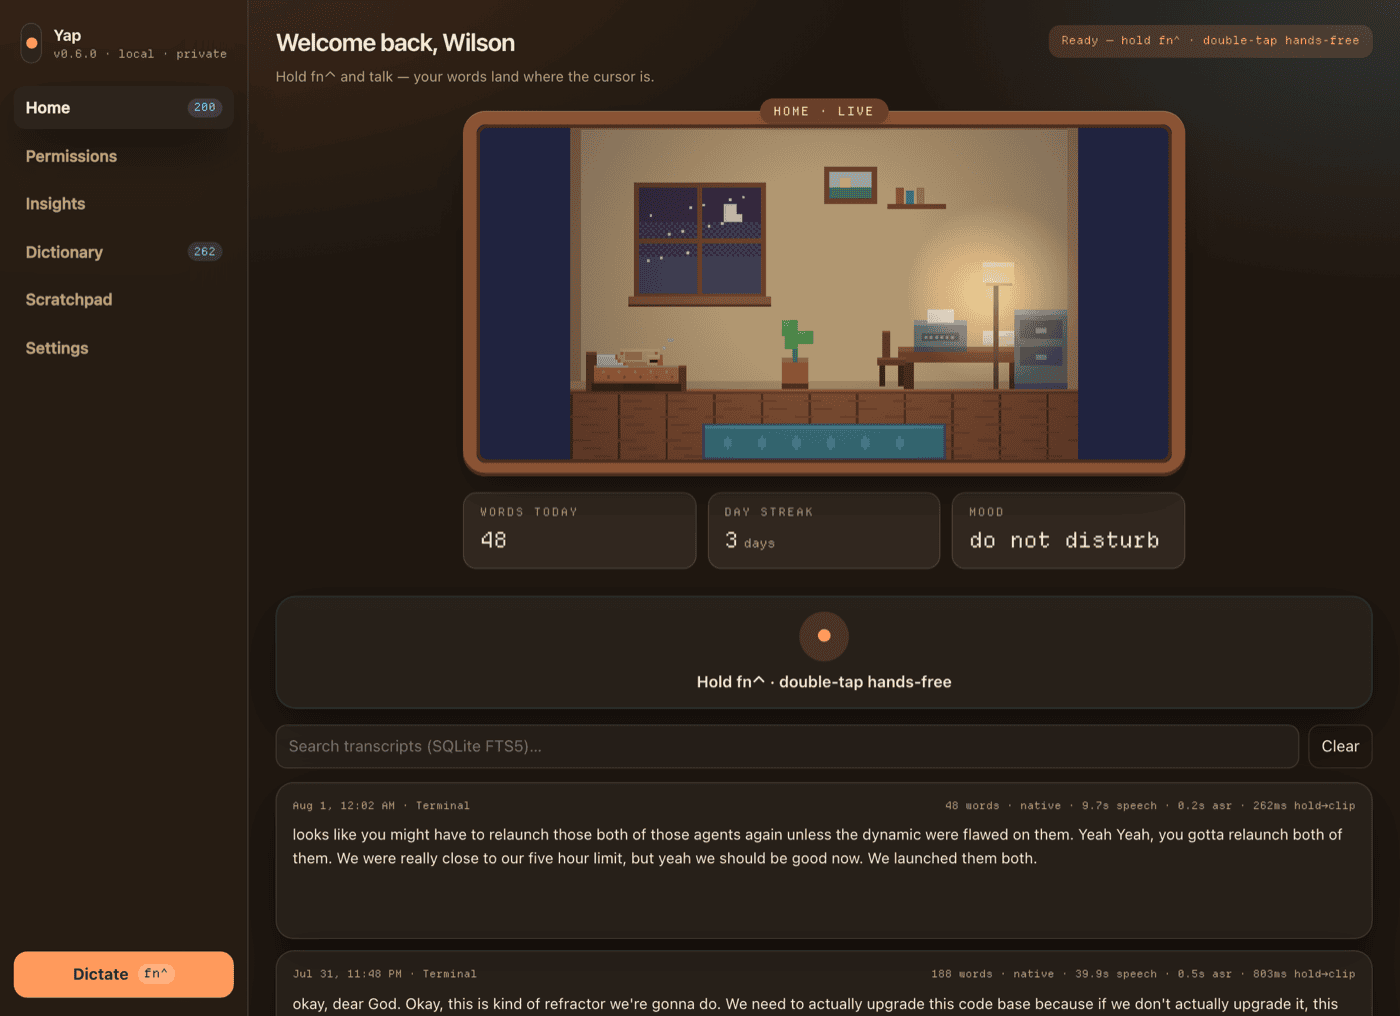
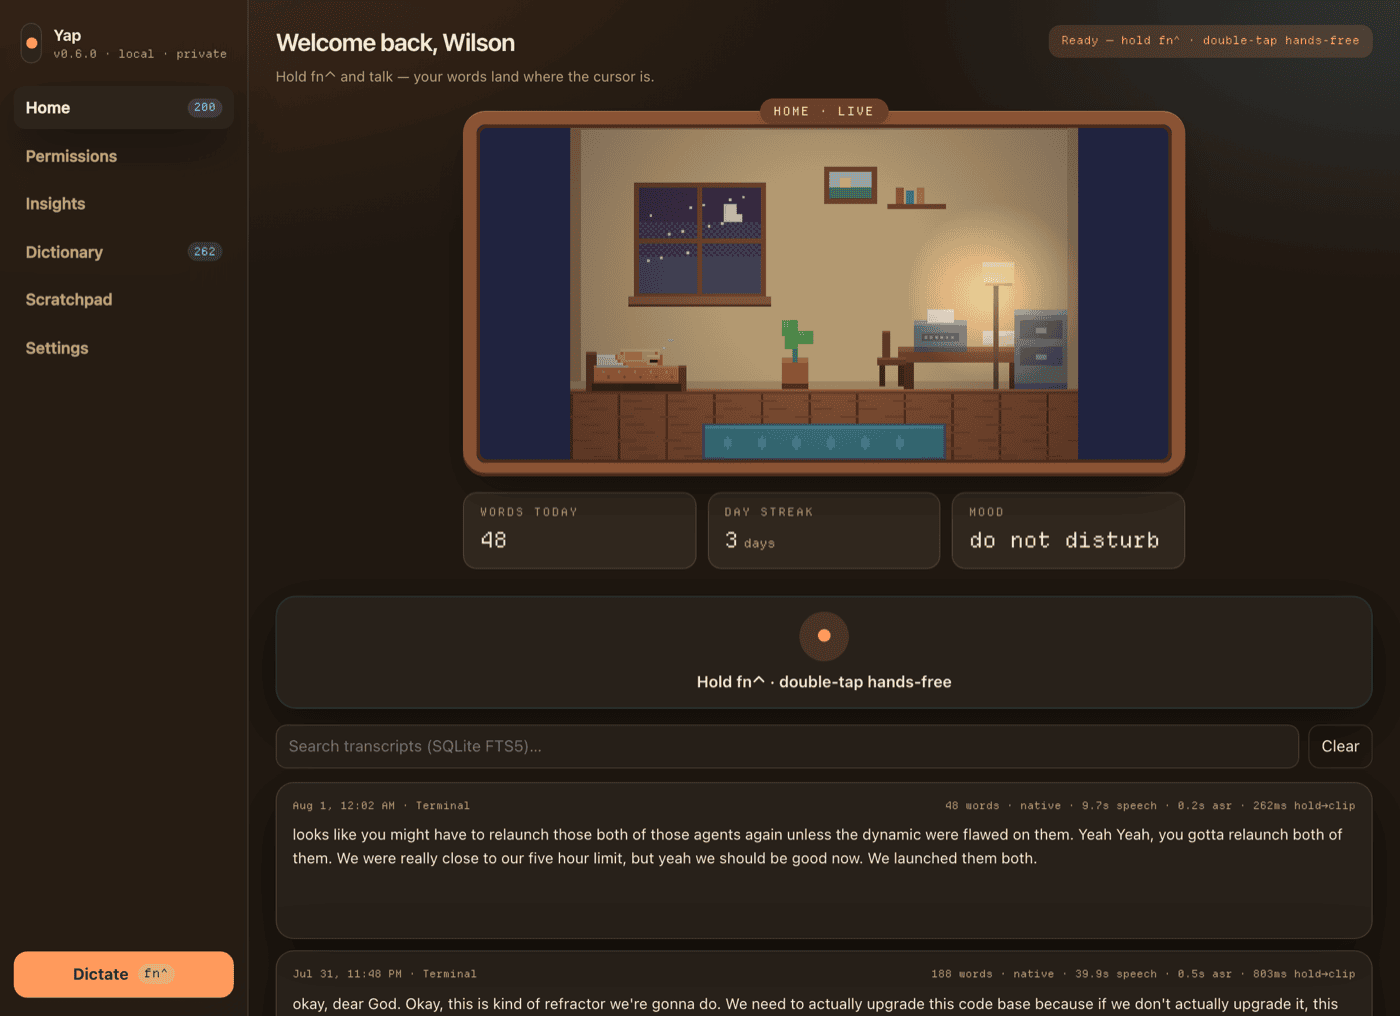
fix(yap): YV56 close the ink rule — the last two accent glyphs on --accent-soft (2.15:1)

diff --git a/desktop/src/App.css b/desktop/src/App.css
@@ -533,7 +533,7 @@ code {
   display: grid;
   place-items: center;
   background: var(--accent-soft);
-  color: var(--accent);
+  color: var(--accent-ink);
 }
 
 .record-btn.live {
@@ -1121,7 +1121,7 @@ button.star {
 }
 
 button.star.on {
-  color: var(--accent);
+  color: var(--accent-ink);
   border-color: var(--accent);
   background: var(--accent-soft);
 }
